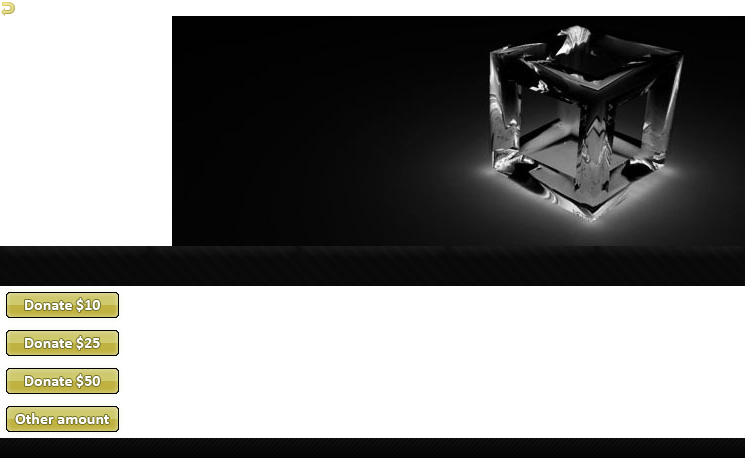
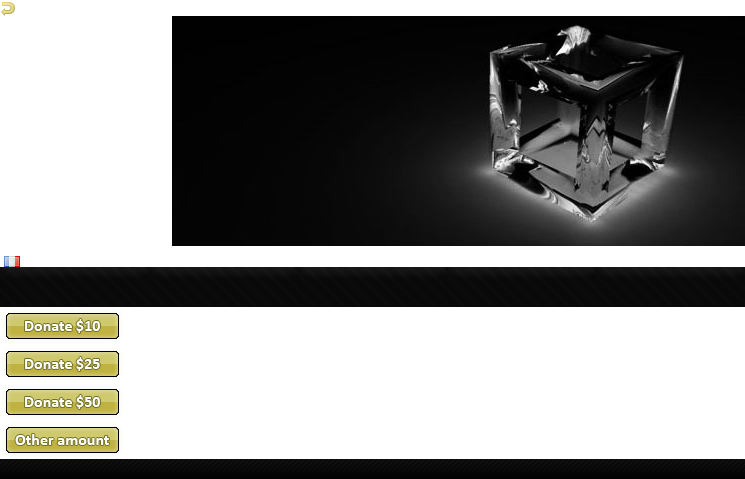
smartsprites: link to the French translation of the website
git-svn-id: https://carrot2.svn.sourceforge.net/svnroot/carrot2/labs/smartsprites@4751 7ff1d41c-760d-0410-a7ff-a3a56f310b35

Changed region(s): [[0.0, 0.0306, 1.0, 0.5808], [0.0, 0.6114, 1.0, 0.9476], [0.0, 0.0, 0.0309, 0.0306]]

diff --git a/doc/website/css/default-sprite.css b/doc/website/css/default-sprite.css
@@ -76,7 +76,6 @@ tt {
 
 code span.nobreak {
   background-image: url('../img/vert.png');
-  -background-image: url('../img/vert-ie6.png');
   background-position: left -0px;
   background-repeat: no-repeat;
   float: right;
@@ -119,7 +118,6 @@ div.quote {
 	background-color: #000;
   background-position: right top;
   background-image: url('../img/vert.png');
-  -background-image: url('../img/vert-ie6.png');
   background-position: right -16px;
   background-repeat: no-repeat;
 	height: 230px;
@@ -151,6 +149,15 @@ code strong,
   color: #606060;
 }
 
+#other-language {
+	color: #888;
+  padding: 8px 0 0 26px;
+  background-position: 4px 10px;
+  background-repeat: no-repeat;
+  background-image: url('../img/vert.png');
+  background-position: left -246px;
+}
+
 /* Menu */
 ul.menu {
 	border-top: 1px solid #1A1A1A;
@@ -164,8 +171,7 @@ ul.menu li {
   margin: 0;
   background-color: #000;
   background-image: url('../img/vert.png');
-  -background-image: url('../img/vert-ie6.png');
-  background-position: left -246px;
+  background-position: left -267px;
   background-repeat: repeat-x;
 	border-right: 1px solid #222;
 	border-top: 1px solid #1A1A1A;
@@ -280,33 +286,28 @@ div.build-info {
 
 #donate-10 {
   background-image: url('../img/vert.png');
-  -background-image: url('../img/vert-ie6.png');
-  background-position: left -286px;
+  background-position: left -307px;
 }
 
 #donate-25 {
   background-image: url('../img/vert.png');
-  -background-image: url('../img/vert-ie6.png');
-  background-position: left -324px;
+  background-position: left -345px;
 }
 
 #donate-50 {
   background-image: url('../img/vert.png');
-  -background-image: url('../img/vert-ie6.png');
-  background-position: left -362px;
+  background-position: left -383px;
 }
 
 #donate-other {
   background-image: url('../img/vert.png');
-  -background-image: url('../img/vert-ie6.png');
-  background-position: left -400px;
+  background-position: left -421px;
 }
 
 .item {
   background-color: #030303;
   background-image: url('../img/vert.png');
-  -background-image: url('../img/vert-ie6.png');
-  background-position: left -438px;
+  background-position: left -459px;
 	background-repeat: repeat-x;
 	padding: 8px 10px;
 }

diff --git a/doc/website/css/default.css b/doc/website/css/default.css
@@ -1,7 +1,7 @@
 /**
  * Design based on the Blackbox design by Viktor Persson (http://arcsin.se).
  */
-/** sprite: vert; sprite-image: url(../img/vert.png); sprite-layout: vertical; sprite-matte-color: #000000 */
+/** sprite: vert; sprite-image: url(../img/vert.png); sprite-layout: vertical */
 * {
 	margin: 0;
 	padding: 0;
@@ -146,6 +146,14 @@ code strong,
 #alpha {
   font-size: 25px;
   color: #606060;
+}
+
+#other-language {
+	color: #888;
+  padding: 8px 0 0 26px;
+  background-position: 4px 10px;
+  background-repeat: no-repeat;
+  background-image: url(../img/fr.png); /** sprite-ref: vert; sprite-margin-top: 10px; sprite-margin-left: 4px; */
 }
 
 /* Menu */

diff --git a/doc/website/index.html b/doc/website/index.html
@@ -12,6 +12,7 @@
 <body>
 <div class="main">
 	<div class="gfx">
+    <a id="other-language" href="http://www.traduction.cc/traduction/Documentation-SmartSprites-8.html">French version</a>
     <h1><span id="smart">Smart</span>Sprites<span id="alpha"> (Alpha!)</span></h1>
     <h2><span id="css-sprite-gen">CSS Sprite Generator</span> <span id="done-right">Done Right</span></h2>
   </div>
